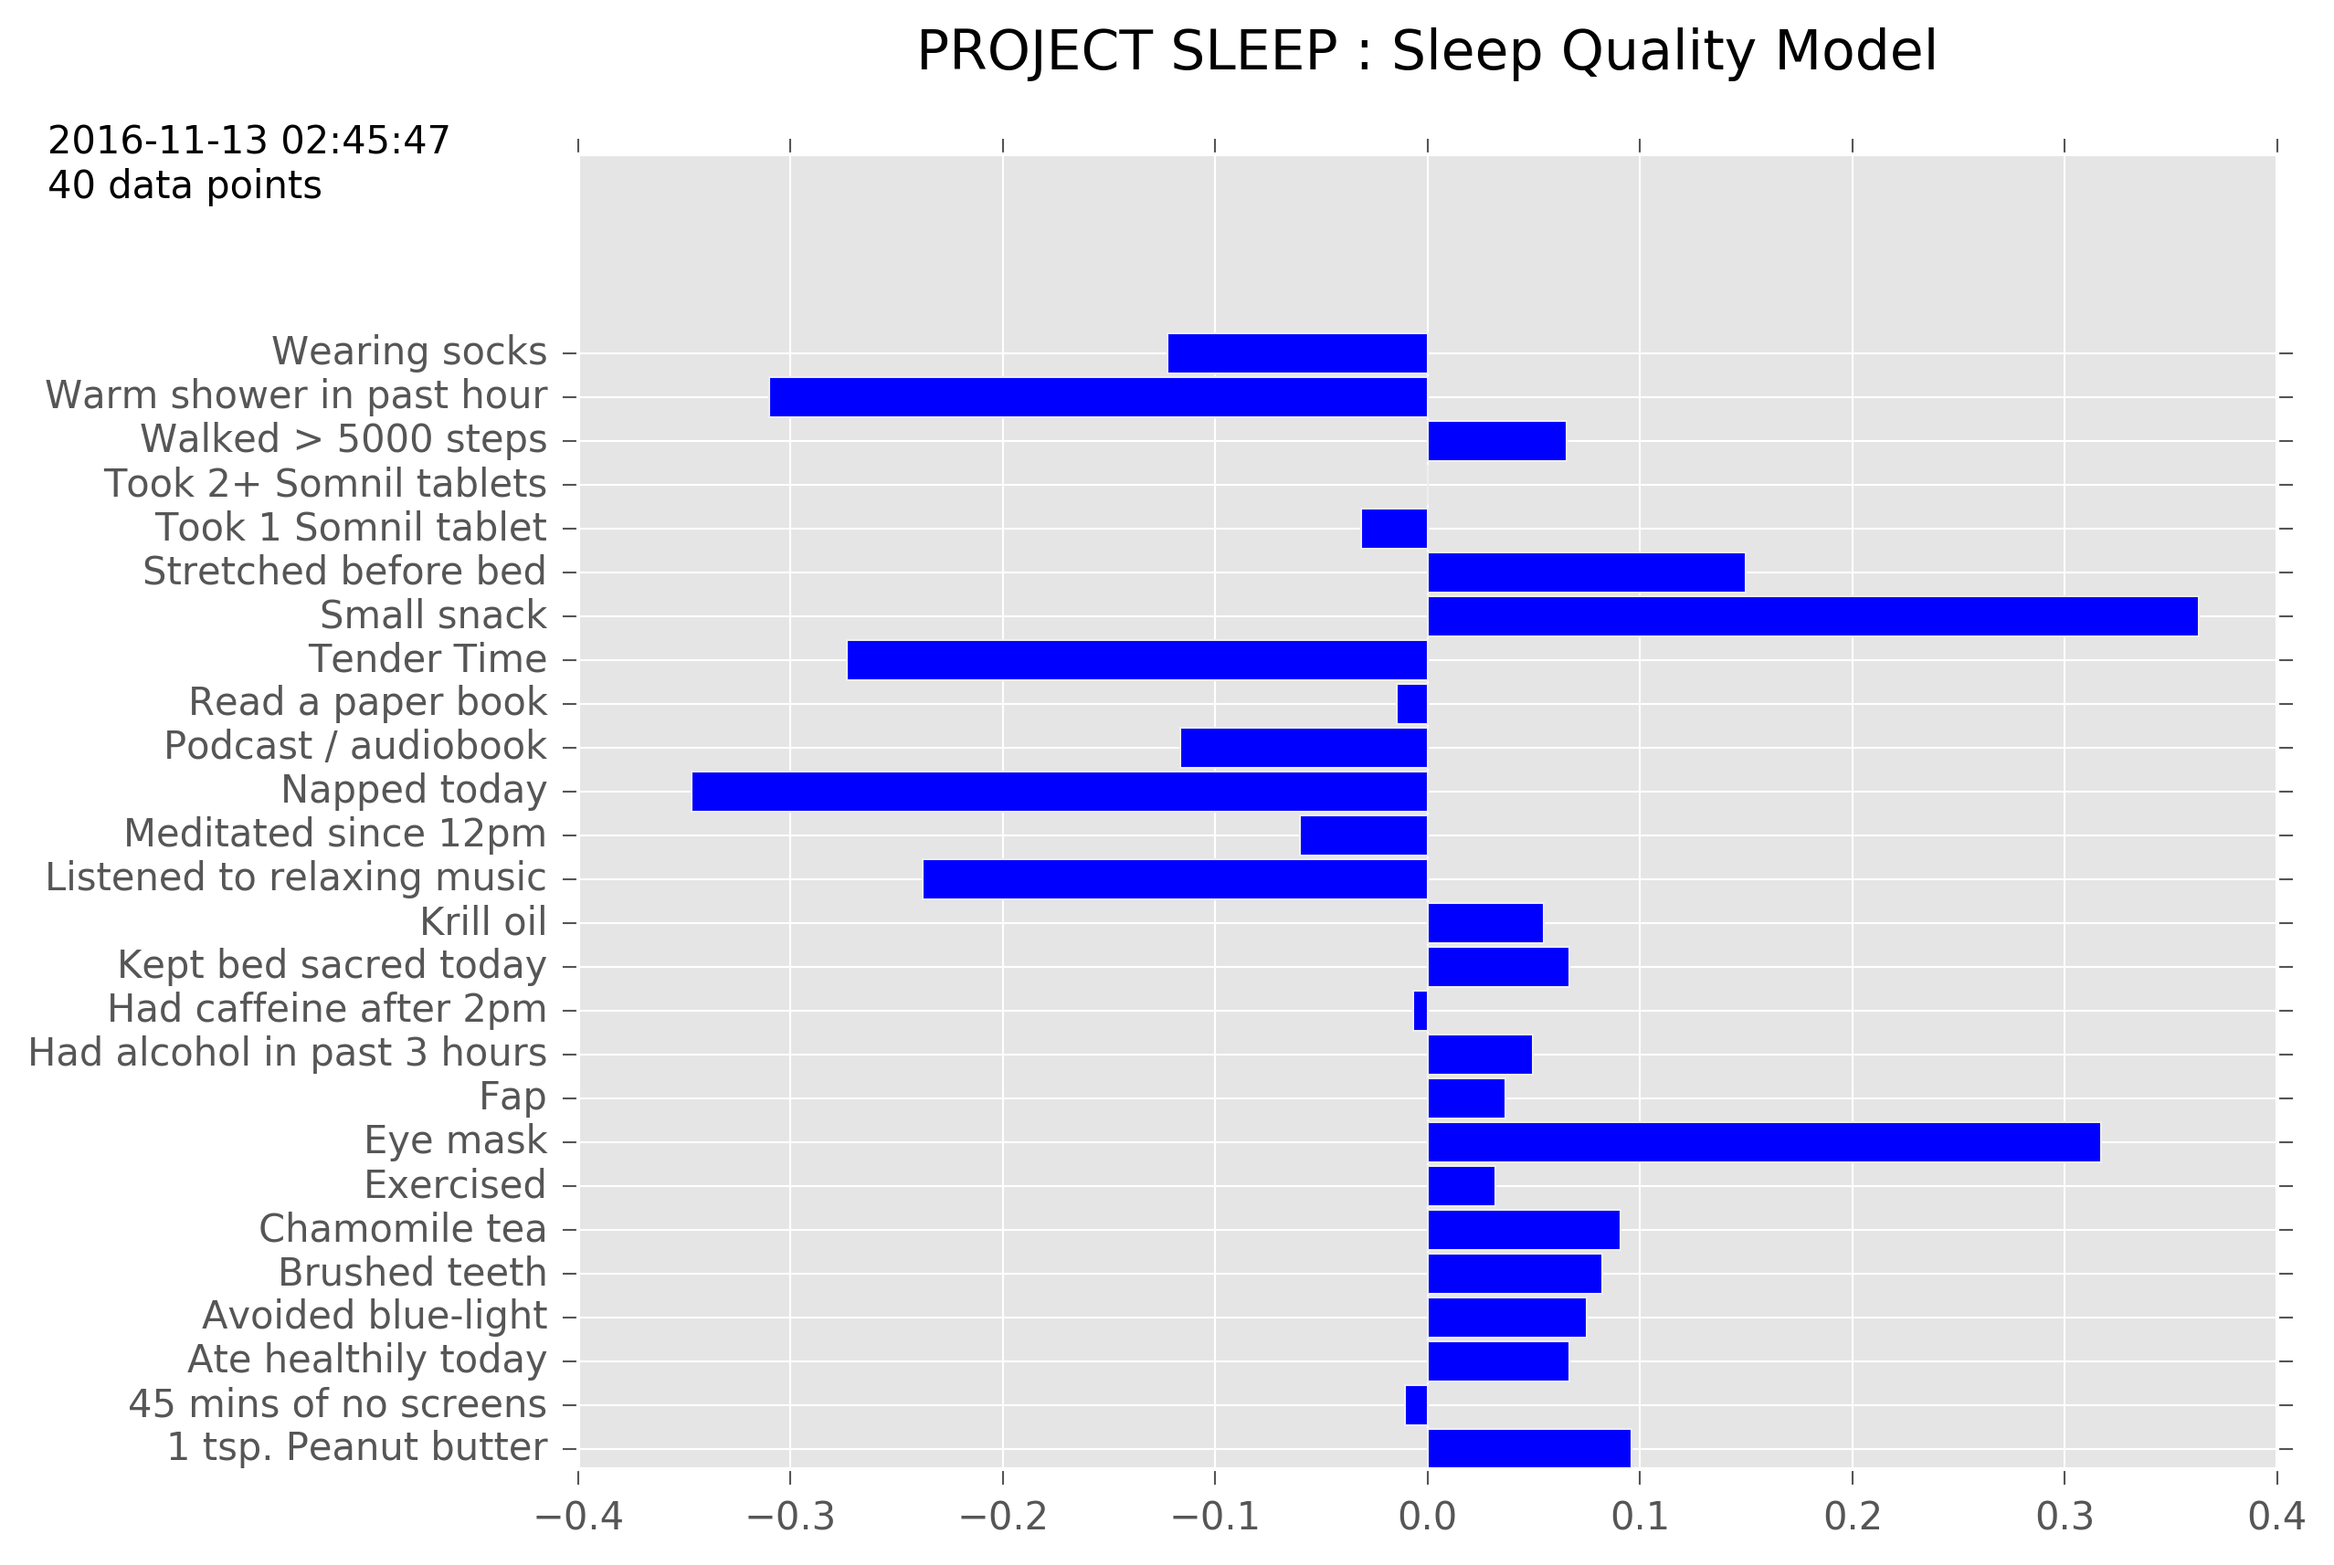
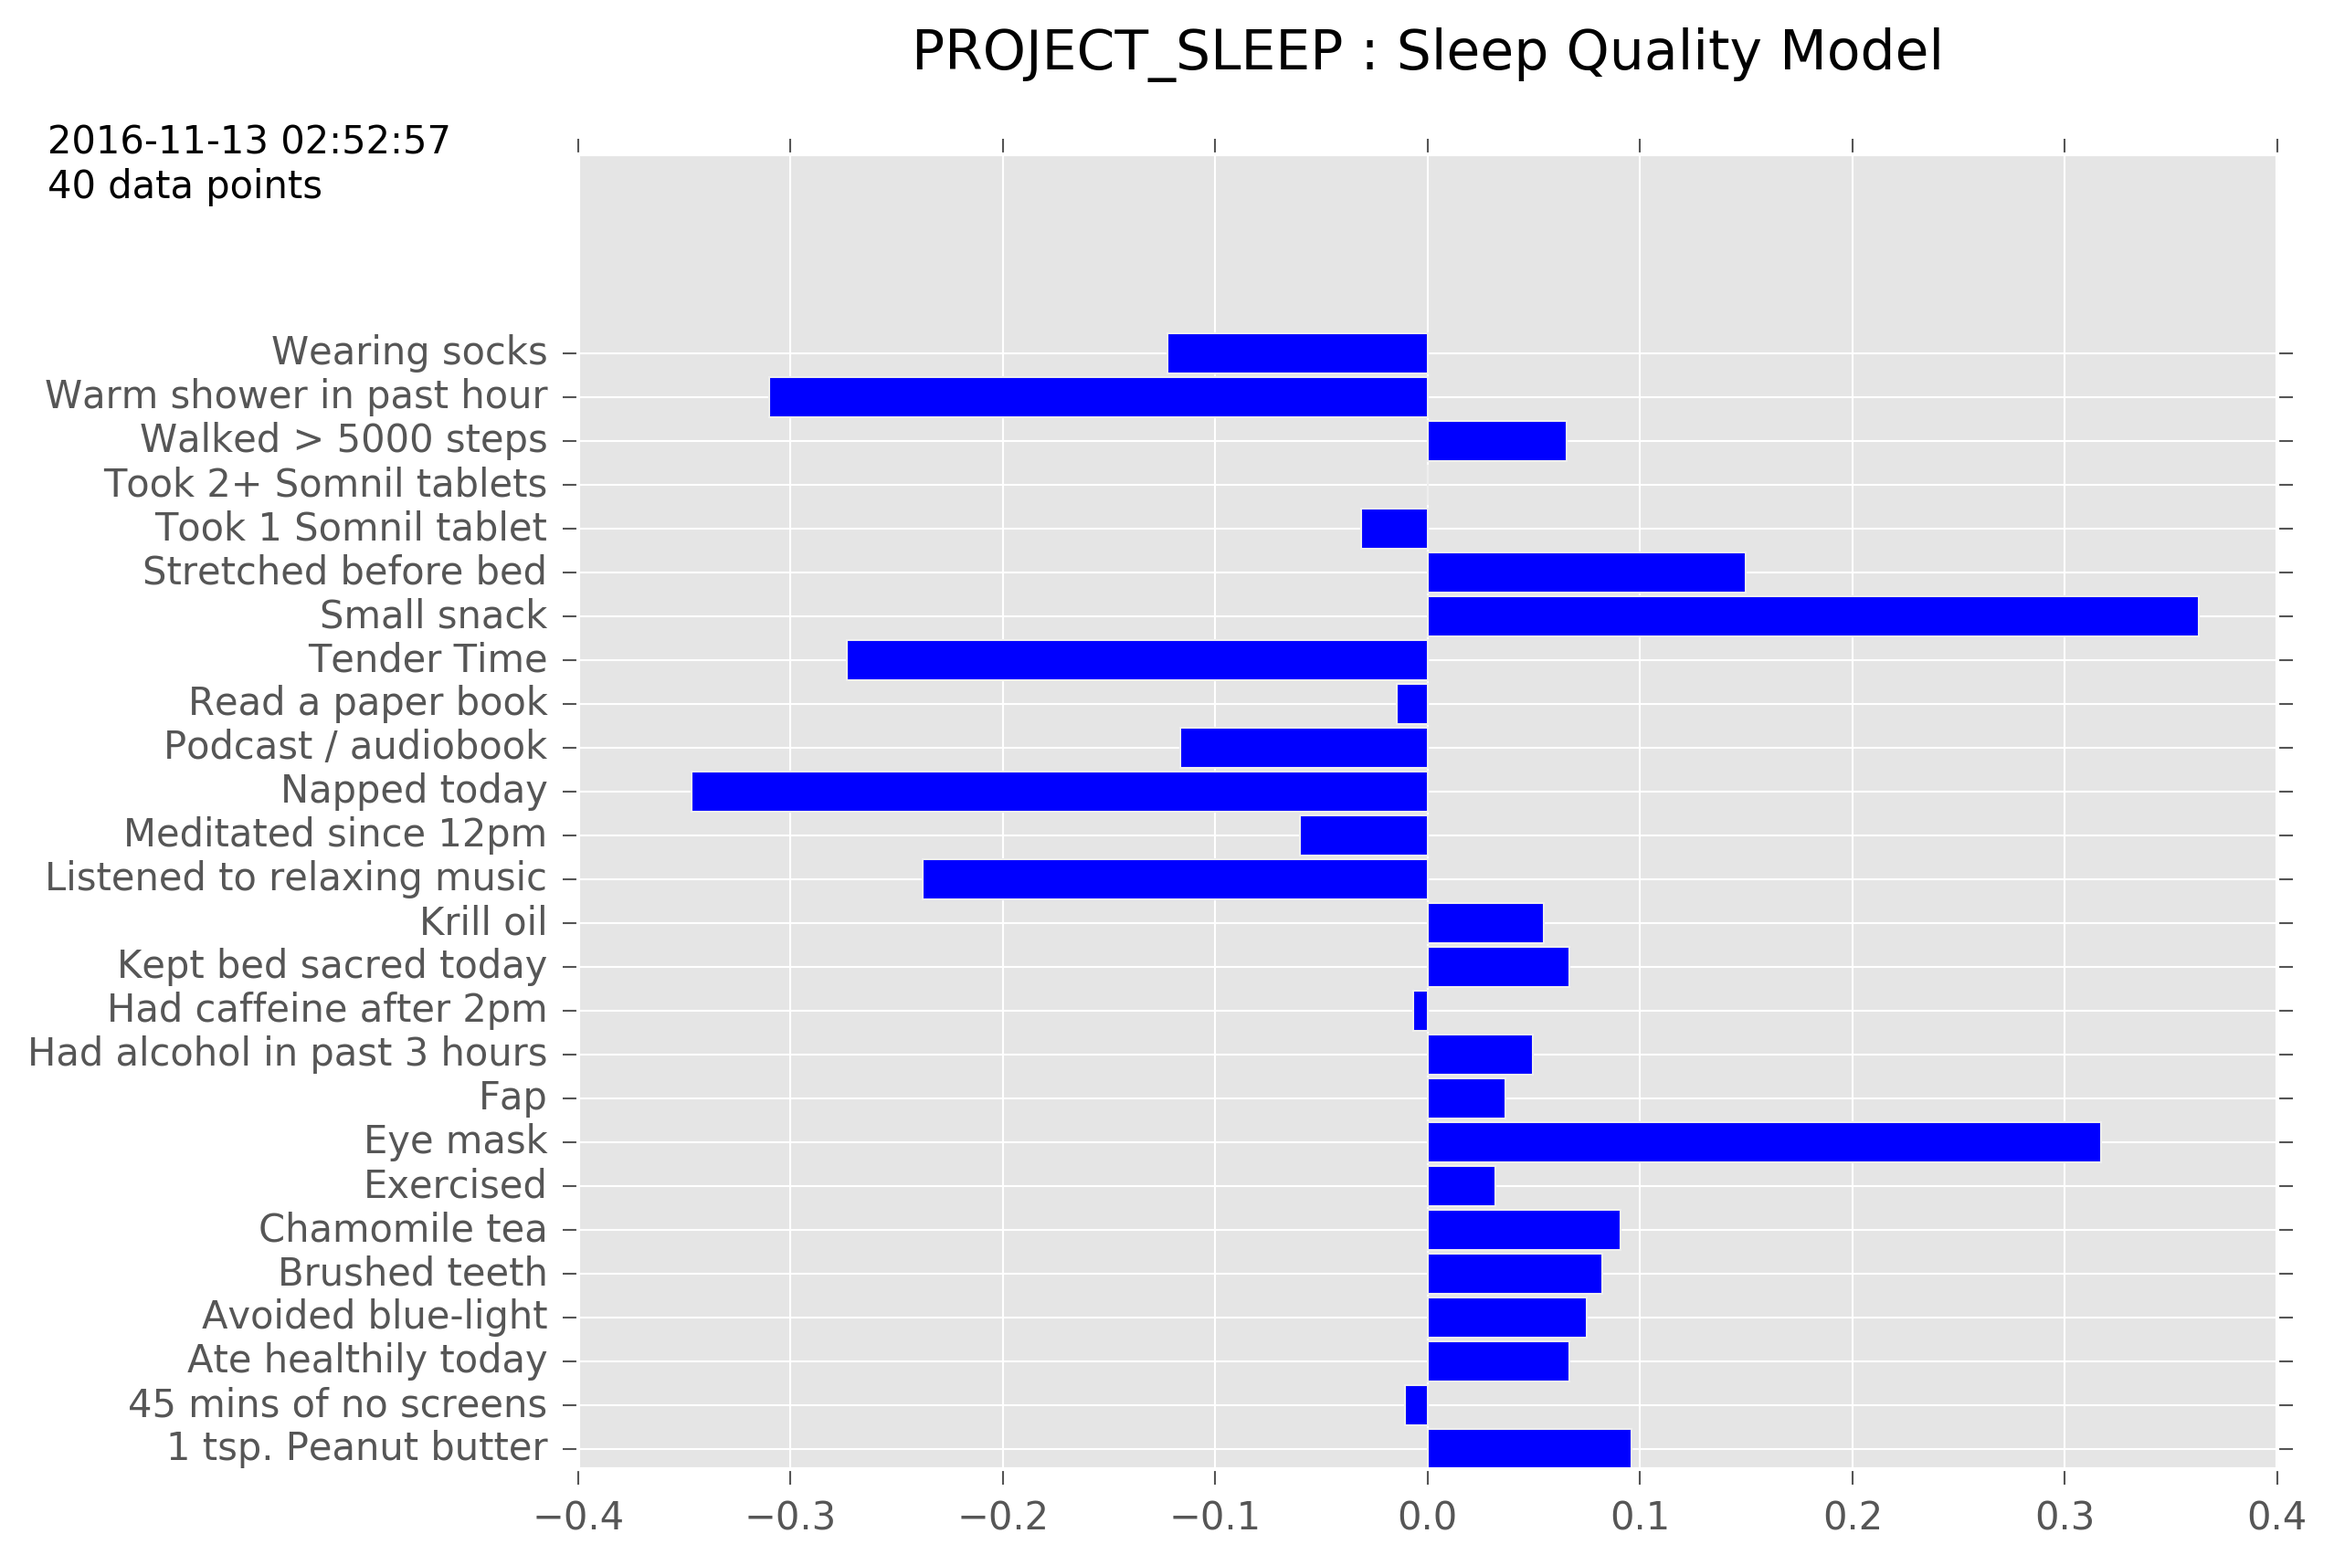
Tweaked image scale in README file. Small readability changes and formatting tweaks to model.py. Updated the PNG example.

Changed region(s): [[0.402, 0.0, 0.8348, 0.0618], [0.1546, 0.0618, 0.1855, 0.0928]]

diff --git a/model.py b/model.py
@@ -42,14 +42,12 @@ class Night:
                           self.data["Walked > 5000 steps"], self.data["Warm shower in past hour"],
                           self.data["Wearing socks"]]
 
-
     def get_vector(self):
         return self.data_list
 
-    def set_sleep_details(self, duration_mins, quality):
+    def set_sleep_details(self, duration_mins, quality_value):
         self.duration_mins = duration_mins
         self.quality = quality
-
 
 # The parameter records are loaded into an array of Night objects.
 data_file = open('nights_data.txt')
@@ -82,7 +80,6 @@ for n in nights:
     if n.quality <= 0.0 or n.duration_mins <= 0.0:
         nights.remove(n)
 
-
 # Create a single matrix from the parameters of all nights.
 a = np.ndarray(shape=(len(nights), 26), dtype=float)
 for i in range(len(nights)):
@@ -101,8 +98,7 @@ for j in range(len(nights)):
         total += nights[j].data_list[i]*result[i]
     print(total, nights[j].quality)
 
-
-#Plotting the data
+#Plotting the data using pyplot
 names = ["1 tsp. Peanut butter", "45 mins of no screens", "Ate healthily today", "Avoided blue-light", "Brushed teeth",
          "Chamomile tea", "Exercised", "Eye mask", "Fap", "Had alcohol in past 3 hours", "Had caffeine after 2pm",
          "Kept bed sacred today", "Krill oil", "Listened to relaxing music", "Meditated since 12pm", "Napped today",
@@ -120,9 +116,9 @@ ind = np.arange(len(y))
 ax.barh(ind, y, width, color="blue")
 ax.set_yticks(ind+width/2)
 ax.set_yticklabels(x, minor=False)
-plt.title('PROJECT SLEEP : Sleep Quality Model', y=1.05)
+plt.title('PROJECT_SLEEP : Sleep Quality Model', y=1.05)
 plt.text(-0.65, 29, str(len(nights))+" data points")
 plt.text(-0.65, 30, time.strftime("%Y-%m-%d %H:%M:%S", time.gmtime()))
 #plt.tight_layout()
 #plt.show()
-plt.savefig(os.path.join('ProjectSleep.png'), dpi=300, format='png', bbox_inches='tight') # use format='svg' or 'pdf' for vectorial pictures
+plt.savefig(os.path.join('ProjectSleep.png'), dpi=300, format='png', bbox_inches='tight')

diff --git a/README.md b/README.md
@@ -2,5 +2,5 @@
 A Quantified Self project in which I use approx. 40 nights of data to determine what helps and hinders my sleep.
 
 <p align="center">
-  <img src="ProjectSleep.png" width="350"/>
+  <img src="ProjectSleep.png" width="600"/>
 </p>
